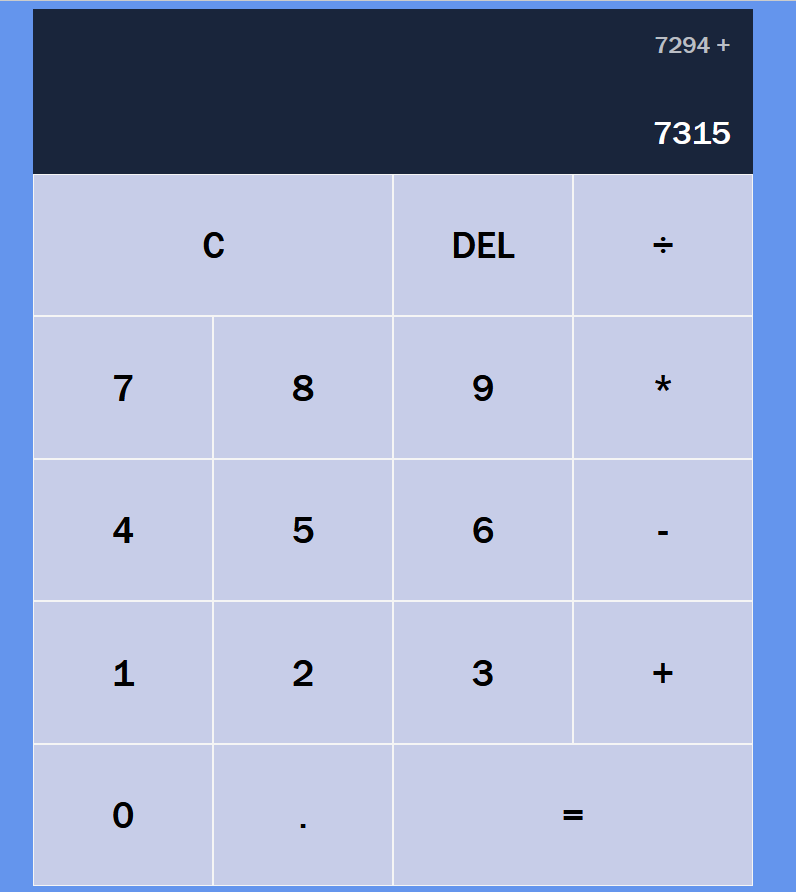
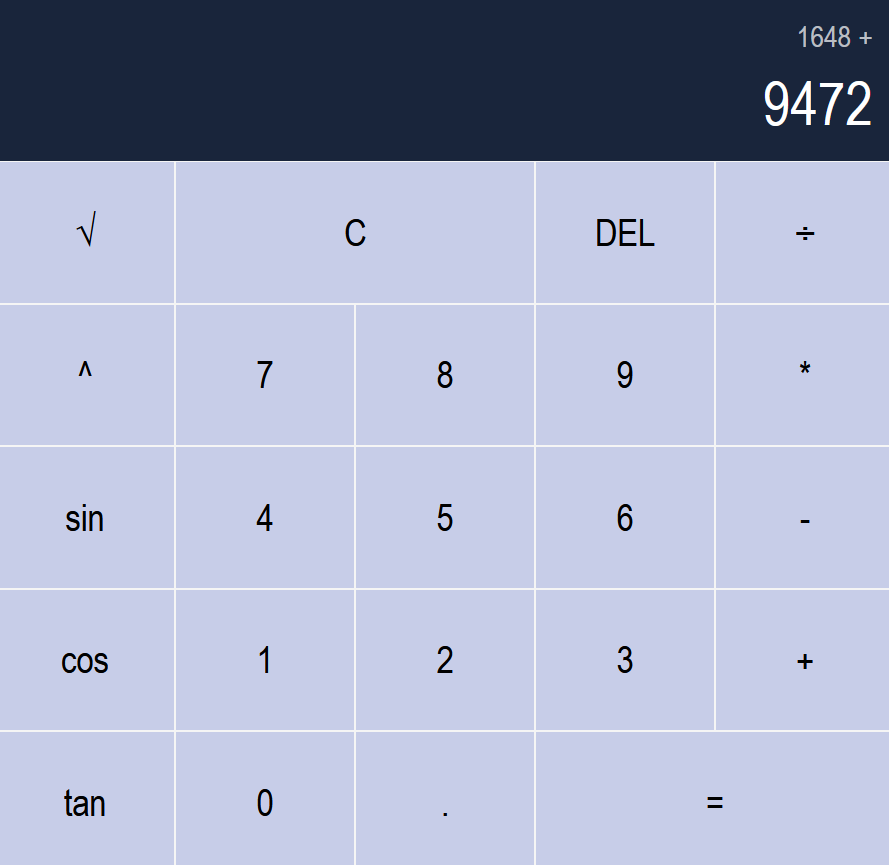
update readme

diff --git a/README.md b/README.md
@@ -18,6 +18,13 @@ cd react-calculator
 npm install
 ```
 
+4. Set up your environment variables:
+
+This project requires an API invoke URL. Obtain yours from AWS (or other services you're using), then create a .env file in the root of your project directory with the following content:
+```
+REACT_APP_API_URL=your_api_invoke_url
+```
+
 4. Start the development server:
 ```
 npm start
@@ -26,11 +33,15 @@ Open [http://localhost:3000](http://localhost:3000) to view it in your browser.
 
 ## Features:
 - add, subtract, multiply and divide integer and float numbers
+- advanced functions
 - a clear button and a delete button: clear the entire number or just one digit
 - operation chaining
+- calculation history
+- keyboard support
 
 ![example picture](images/calculator.png)
 ![the result](/images/result.png)
+![the history feature](/images/history.png)
 
 ## Licence
 
